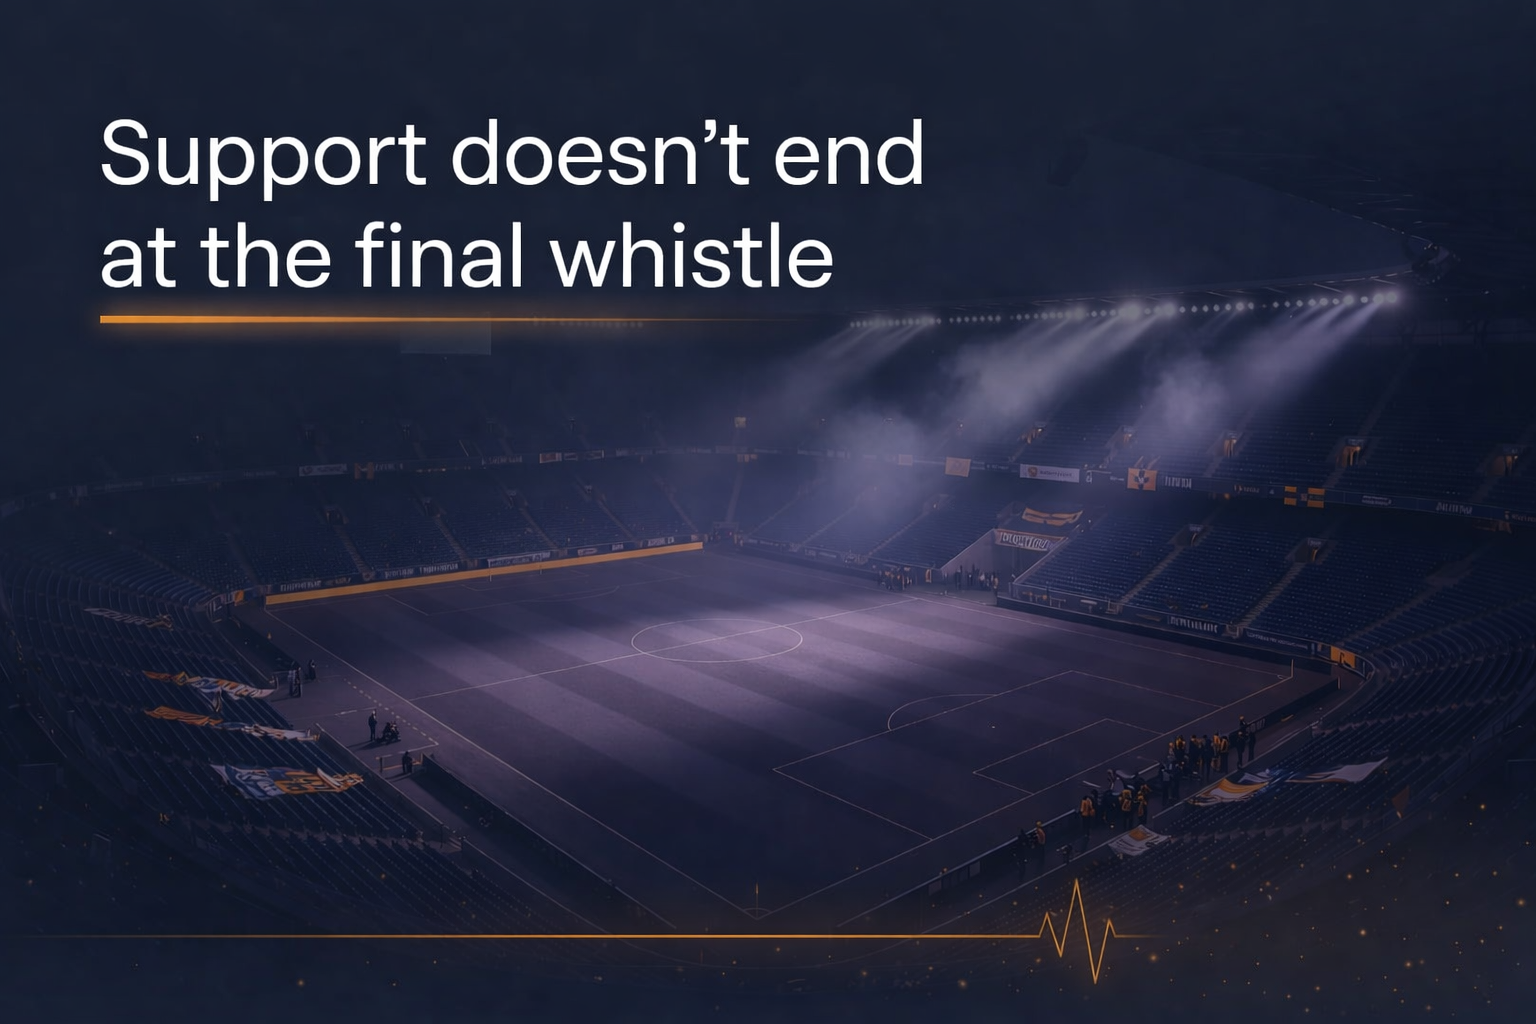
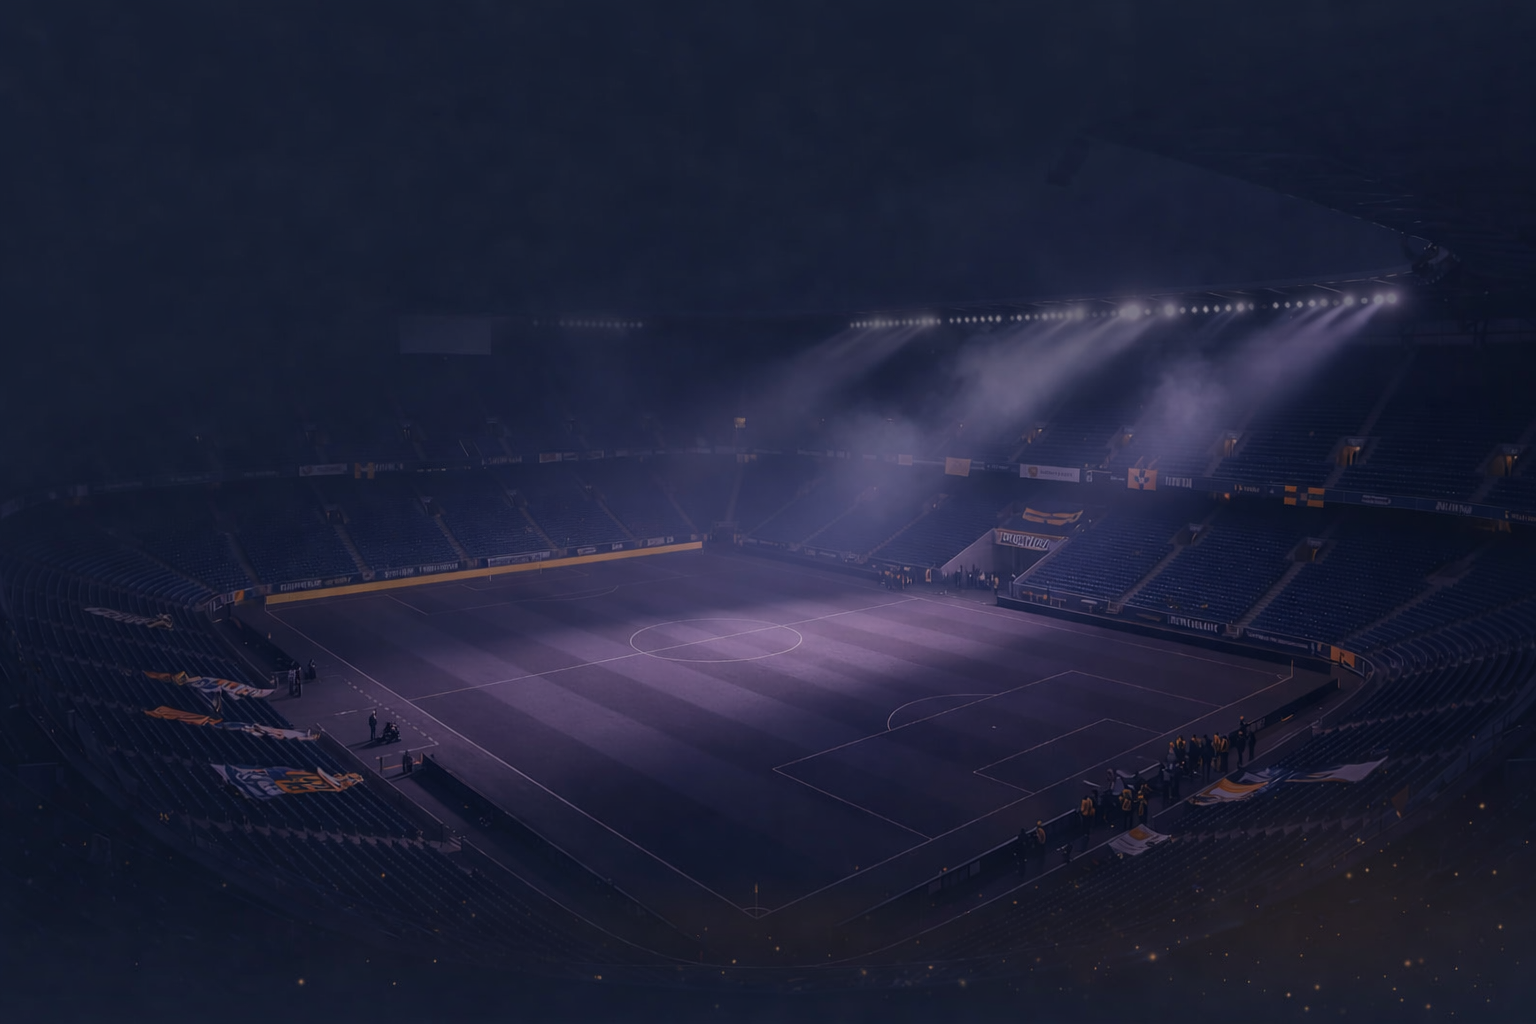
Update bottom visual asset

diff --git a/src/app/globals.css b/src/app/globals.css
@@ -761,9 +761,9 @@ img {
 
 .why-matters__image {
   object-fit: cover;
-  object-position: 44% 46%;
+  object-position: 50% 48%;
   filter: saturate(0.94) brightness(0.96) contrast(1.01);
-  transform: scale(1.03);
+  transform: scale(1.01);
 }
 
 .why-matters__visual-orbit {
